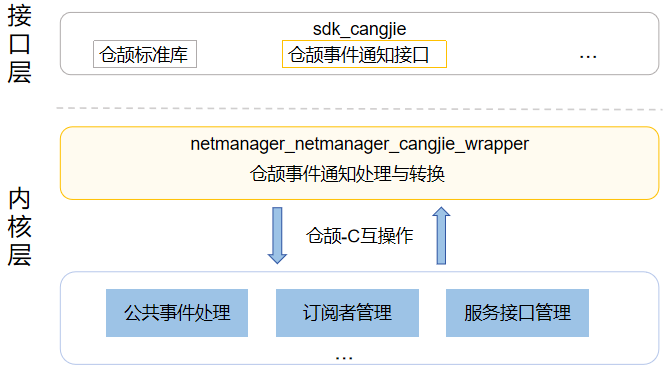
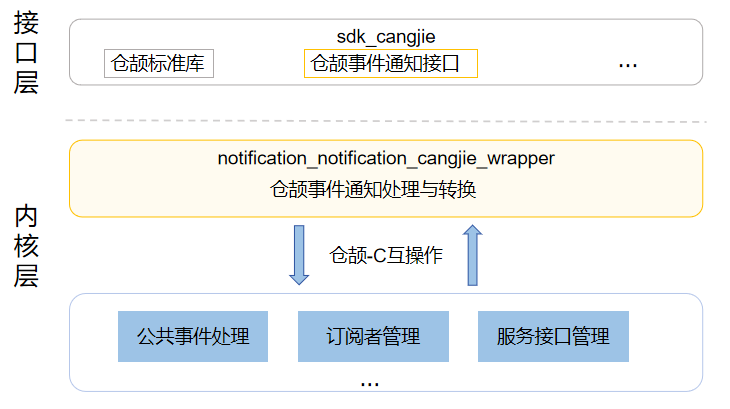
update README_en

diff --git a/README.md b/README.md
@@ -1,8 +1,8 @@
-# Common Event and Notification
+# notification_cangjie_wrapper
 
 ## Introduction
 
-OpenHarmony provides a Common Event Service (CES) for applications to subscribe to, publish, and unsubscribe from common events.
+The notification_cangjie_wrapper is a Cangjie API encapsulated on OpenHarmony based on the capabilities of the Common Event Service (CES) Subsystem. OpenHarmony provides a CES for applications to subscribe to, publish, and unsubscribe from common events.
 
 Common events in OpenHarmony are classified into system common events and custom common events.
 
@@ -14,7 +14,7 @@ Each application can subscribe to common events as required. After your applicat
 
 ### Architecture
 
-![](figures/en_cesfwk_architecture_diagram.png "CES Architecture")
+![](figures/notification_cangjie_wrapper_architecture_en.png "notification_cangjie_wrapper Architecture")
 
 ## Directory Structure
 
@@ -26,6 +26,4 @@ base/notification/notification_cangjie_wrapper
 
 ## Repositories Involved
 
-**Common Event and Notification**
-
-notification_cangjie_wrapper
+[notification_common_event_service](https://gitee.com/openharmony/notification_common_event_service/blob/master)

diff --git a/README_zh.md b/README_zh.md
@@ -26,6 +26,4 @@ base/notification/notification_cangjie_wrapper
 
 ## 相关仓
 
-**事件通知仓颉**
-
 [notification_common_event_service](https://gitee.com/openharmony/notification_common_event_service/blob/master/README_zh.md)
